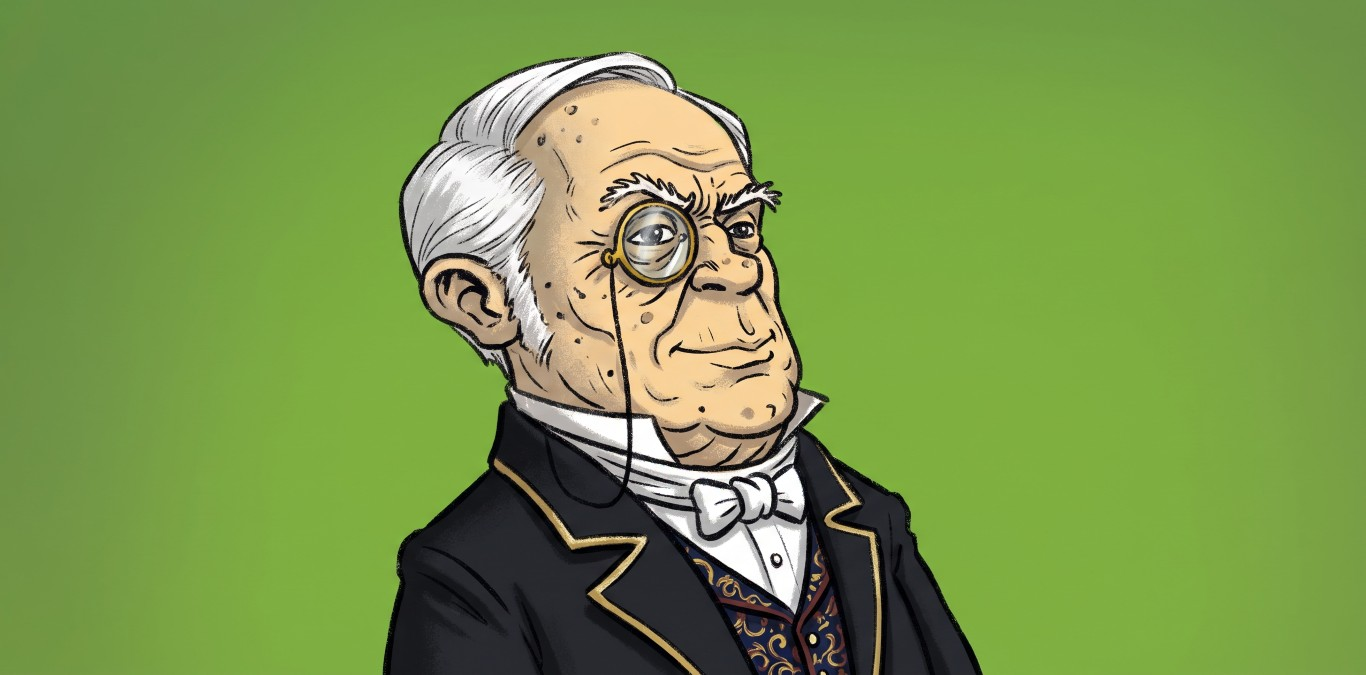
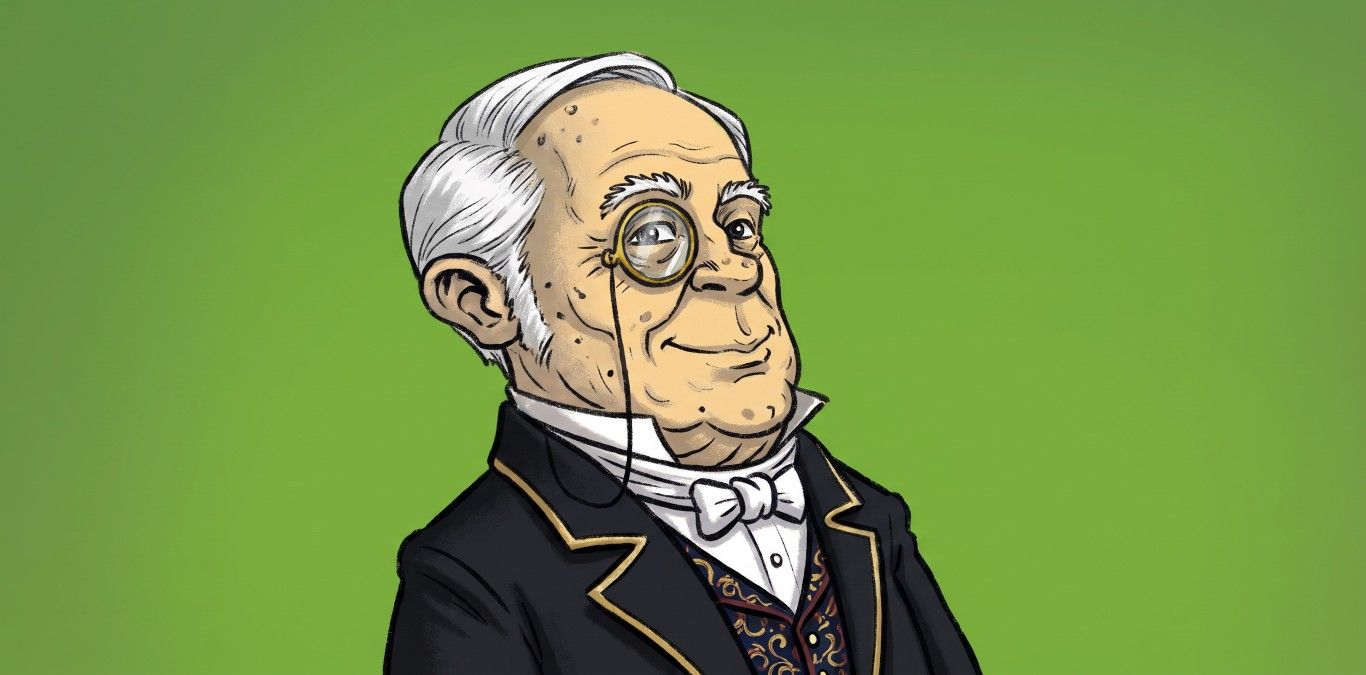
README: friendlier splash image (the user's new artwork)

diff --git a/README.md b/README.md
@@ -16,7 +16,7 @@ claude plugin marketplace update jeeves
 claude plugin update jeeves@jeeves
 ```
 
-![Jeeves, an elderly butler with a monocle, white bow tie and dark tailcoat](docs/images/jeeves-butler.jpg)
+![Jeeves, a smiling elderly butler with a monocle, white bow tie and dark tailcoat](docs/images/jeeves-butler.jpg)
 
 > **Just work as usual.** Now and then, run `/jeeves:update` (or `/jeeves`): Jeeves reviews the session and
 > the memories Claude saved in your projects, keeps what is worth learning, and writes it into your
